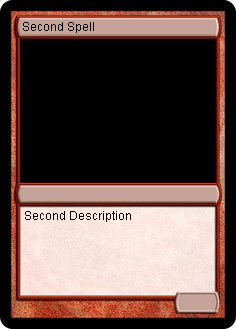
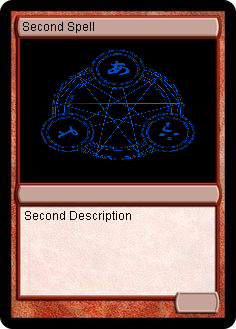
Add Main Image Drawing

Changed region(s): [[0.178, 0.152, 0.8305, 0.4863], [0.7119, 0.4559, 0.7415, 0.4863]]

diff --git a/src/Main.java b/src/Main.java
@@ -1,6 +1,8 @@
 import java.awt.Color;
 import java.awt.Graphics2D;
+import java.awt.Image;
 import java.awt.image.BufferedImage;
+import java.awt.image.ImageObserver;
 import java.io.File;
 import java.io.IOException;
 import java.nio.charset.Charset;
@@ -15,7 +17,12 @@ public class Main {
 	
 	public static final String csvFileName = "./res/csv/sample.csv";
 	public static final String templateFileName = "./res/images/template.jpg";
+	public static final String abjurationFileName = "./res/images/abjuration.jpg";
 
+	public enum SpellType {
+		Abjuration
+	}
+	
 	public static void main(String[] args) throws IOException {
 		CSVParser parser = CSVParser.parse(new File(csvFileName), Charset.defaultCharset(), CSVFormat.DEFAULT.withFirstRecordAsHeader());
 		
@@ -28,13 +35,33 @@ public class Main {
 			
 			writeTop(g, record.get("Spell Name"));
 			writeDesc(g, record.get("Spell Description"));
+			writeImg(g, SpellType.Abjuration);
+
 			
 			ImageIO.write(img, "png", new File("./res/images/sample-" + cardCount + ".png"));
 			
 			cardCount++;
-		}		
+		}	
+		
+		System.out.println("Done!");
 	}
 	
+	public static void writeImg(Graphics2D g, SpellType type) throws IOException {
+		
+		BufferedImage img;
+		
+		switch(type) {
+		case Abjuration:
+			img = ImageIO.read(new File(abjurationFileName));
+			break;
+		default:
+			img = ImageIO.read(new File(abjurationFileName));
+			break;
+		}
+		
+		g.drawImage(img, 21, 40, 215-21, 182-40, getEmptyObserver()); //TODO yuck it's not square
+	}
+
 	public static void writeTop(Graphics2D g, String s) {
 		g.setColor(Color.BLACK);
 		g.drawString(s, 22, 31);
@@ -53,5 +80,16 @@ public class Main {
 	public static void writeBottom(Graphics2D g, String s) {
 		g.setColor(Color.BLACK);
 		g.drawString(s, 181, 307);
+	}
+	
+	public static ImageObserver getEmptyObserver() {
+		return new ImageObserver() {
+
+			@Override
+			public boolean imageUpdate(Image img, int infoflags, int x, int y, int width, int height) {
+				return false;
+			}
+			
+		};
 	}
 }
